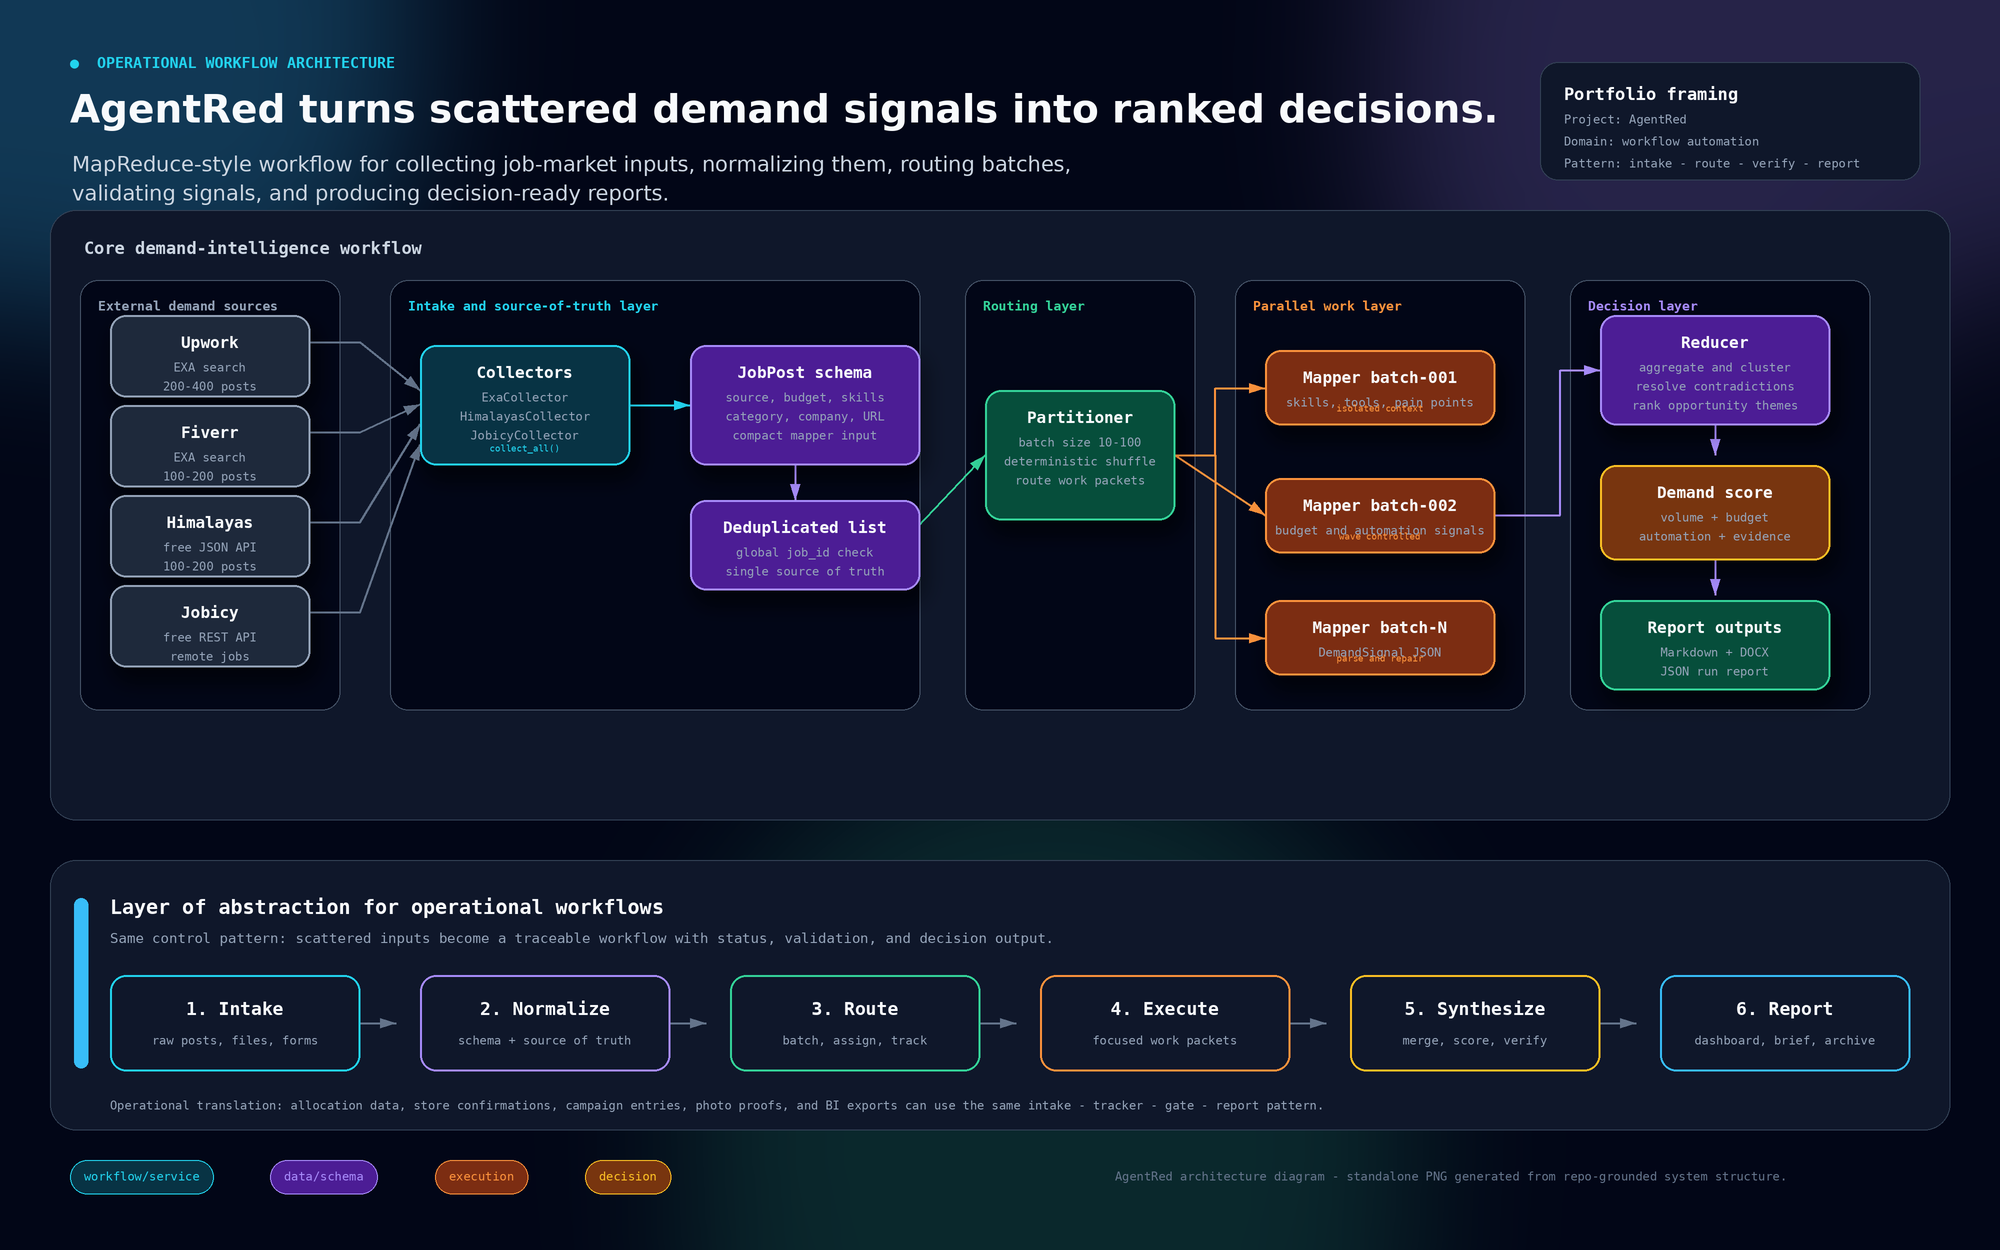
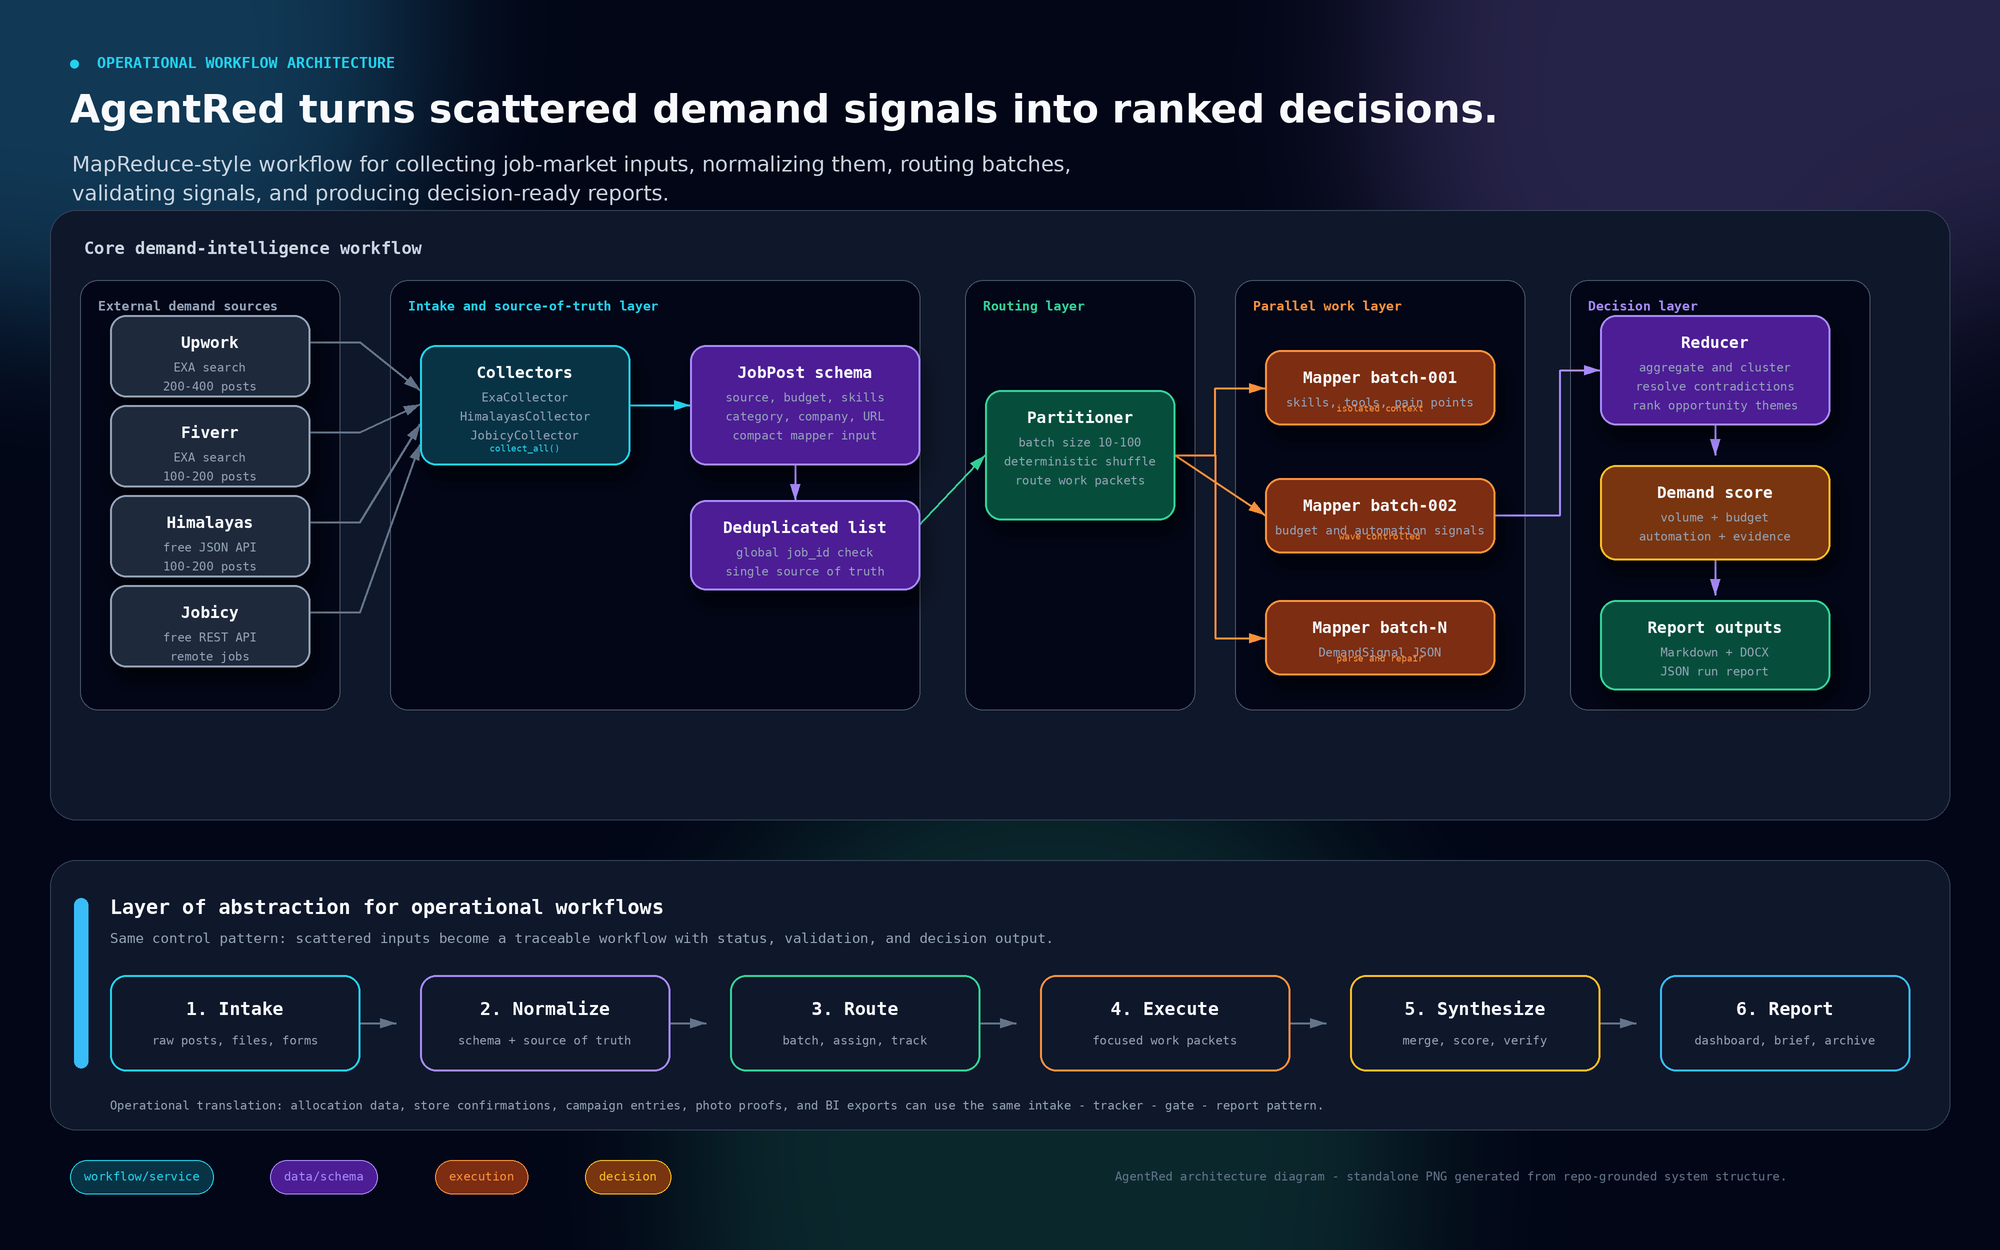
fix: remove 'Portfolio framing' box from architecture diagram
Removed the self-referential 'Portfolio framing' info box from the
top-right corner of both the PNG and HTML architecture diagrams.
Also cleaned up the footer text that referenced 'portfolio and resume
strategy use'.

Changed region(s): [[0.744, 0.0312, 0.961, 0.156]]

diff --git a/docs/agentred-operational-workflow-architecture.html b/docs/agentred-operational-workflow-architecture.html
@@ -147,13 +147,6 @@
         <h1>AgentRed turns scattered demand signals into ranked decisions.</h1>
         <p class="subtitle">A MapReduce-style workflow that collects job-market inputs, normalizes them, routes batches to focused mapper agents, validates and reduces signals, then produces decision-ready reports.</p>
       </div>
-      <aside class="meta">
-        <strong>Portfolio framing</strong>
-        Project: AgentRed<br />
-        Domain: workflow automation<br />
-        Output: Markdown, DOCX, JSON<br />
-        Pattern: intake - route - verify - report
-      </aside>
     </header>
 
     <main class="diagram-container">
@@ -388,7 +381,7 @@
       </article>
     </section>
 
-    <p class="footer">AgentRed architecture diagram - generated as standalone HTML/SVG for portfolio and resume strategy use.</p>
+    <p class="footer">AgentRed architecture diagram - generated as standalone HTML/SVG.</p>
   </div>
 </body>
 </html>

diff --git a/docs/render_agentred_diagram.py b/docs/render_agentred_diagram.py
@@ -113,12 +113,6 @@ text_left('AgentRed turns scattered demand signals into ranked decisions.', 70, 
 sub = 'MapReduce-style workflow for collecting job-market inputs, normalizing them, routing batches, validating signals, and producing decision-ready reports.'
 for i, line_txt in enumerate(textwrap.wrap(sub, 95)):
     text_left(line_txt, 72, 152 + i*29, f_sub, C('#cbd5e1'))
-rounded_rect(1540, 62, 380, 118, C('#0f172a', 175), C('#334155', 180), 1, 18)
-text_left('Portfolio framing', 1564, 84, f_h, text)
-text_left('Project: AgentRed', 1564, 112, f_body, muted)
-text_left('Domain: workflow automation', 1564, 134, f_body, muted)
-text_left('Pattern: intake - route - verify - report', 1564, 156, f_body, muted)
-
 rounded_rect(50, 210, 1900, 610, C('#0f172a', 120), C('#334155', 190), 1, 26)
 text_left('Core demand-intelligence workflow', 84, 238, f_h, C('#cbd5e1'))
 